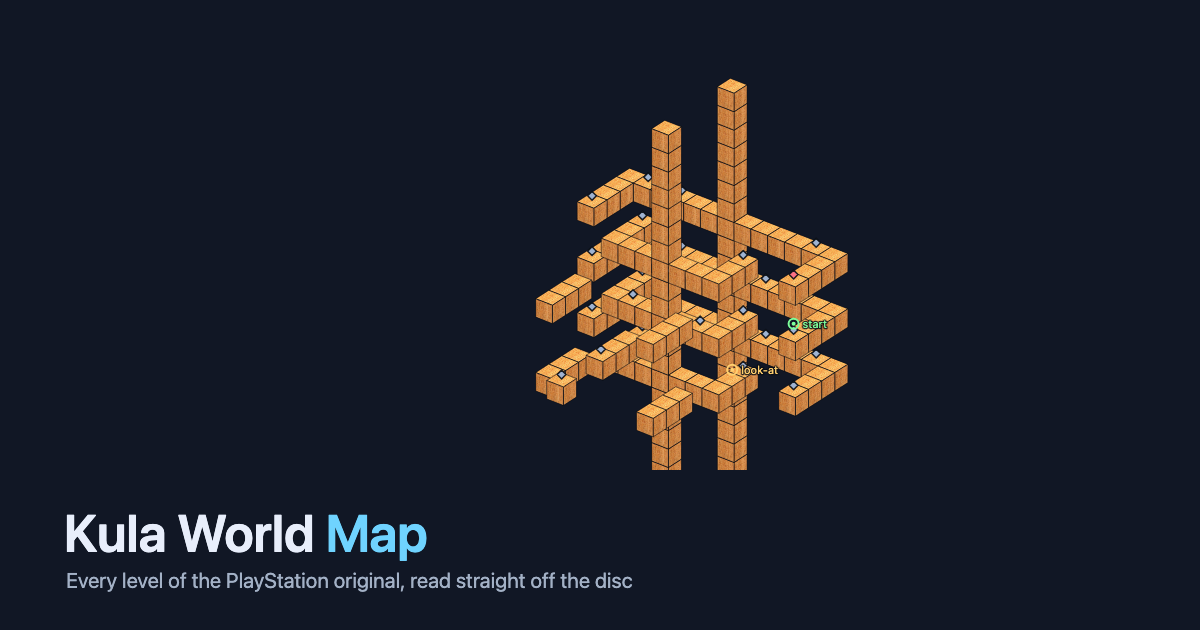
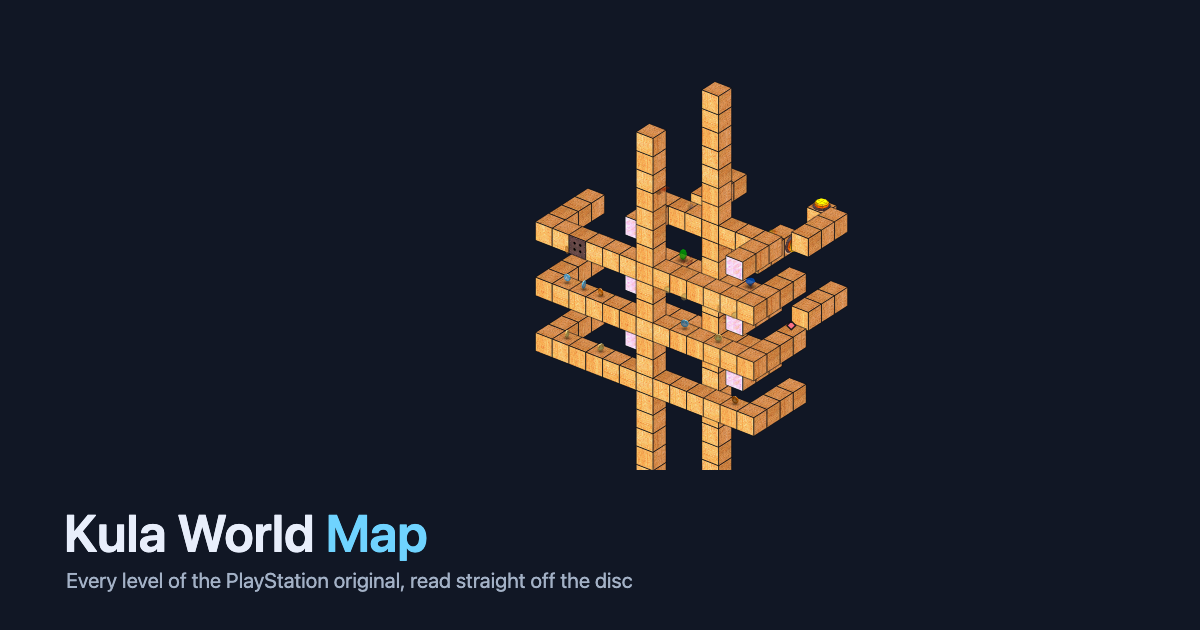
Redraw the social card from the map as it now draws
The card still showed the map as it once was, flat tints and numbered
markers with "start" and "look-at" written beside them, and its alt text
promised textured blocks. Run again, ogcard.js lost its title: the map
now redraws every frame while anything on the level turns, and the next
frame painted over the band the script had drawn, before the world's
atlas had even arrived.

The script now waits for the atlas, then stops the animation clock
before drawing the band and the title. It leaves the camera target off,
as it already left the labels off, and the pan is re-tuned to the
camera's current framing so the level sits right of the title as it did.
The alt text says what the picture is.

Changed region(s): [[0.4317, 0.1206, 0.7092, 0.754]]

diff --git a/tools/ogcard.js b/tools/ogcard.js
@@ -42,9 +42,23 @@ try {
     state.cam.pitch = 30;
     nav.fit();
     state.cam.zoom *= 0.78;
-    state.cam.panX = -2.2;
-    state.cam.panY = -0.9;
+    state.cam.panX = -6.4;
+    state.cam.panY = 2.1;
     state.show.labels = false;
+    state.show.start = false;
+    render.invalidatePick();
+    render.draw();
+
+    // The level draws flat until its world's atlas arrives, and redraws every
+    // frame while anything on it turns, which would paint over the title; so
+    // the card waits for the atlas and then stops the clock.
+    while (!performance.getEntriesByType("resource").some((e) => e.name.includes("/tex/"))) {
+      if (Date.now() > deadline) throw new Error("the atlas did not load");
+      await new Promise((r) => setTimeout(r, 50));
+    }
+    await new Promise((r) => setTimeout(r, 300));
+    window.requestAnimationFrame = () => 0;
+    await new Promise((r) => setTimeout(r, 100));
     render.invalidatePick();
     render.draw();
 

diff --git a/public/index.html b/public/index.html
@@ -29,7 +29,7 @@
   <meta property="og:image:height" content="630" />
   <meta
     property="og:image:alt"
-    content="A Kula World level drawn as a lattice of textured blocks"
+    content="A Kula World level drawn block by block in the game's own textures"
   />
 
   <meta name="twitter:card" content="summary_large_image" />
@@ -41,7 +41,7 @@
   <meta name="twitter:image" content="https://kulaworld.retroatlas.org/og-image.png" />
   <meta
     name="twitter:image:alt"
-    content="A Kula World level drawn as a lattice of textured blocks"
+    content="A Kula World level drawn block by block in the game's own textures"
   />
 
   <!-- the map is unusable until this lands, so start it during parse rather than
